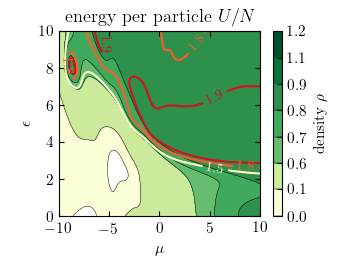
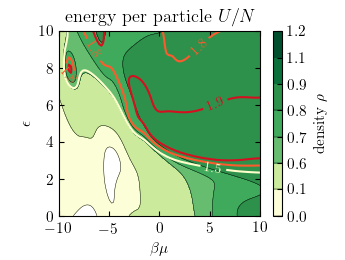
Fix

diff --git a/patchy_ann/map.py b/patchy_ann/map.py
@@ -152,7 +152,7 @@ def main():
 
     cc=contour(X,Y,en,interpolation=None,vmin=1.5,vmax=2.0,levels=[1.5,1.8,1.9,2.0],cmap="YlOrRd")
     clabel(cc,inline=1,fontsize=10,fmt="%.1lf")
-    xlabel(r"$\mu$")
+    xlabel(r"$\beta\mu$")
     ylabel(r"$\epsilon$")
 
     xlim([-10,10])
